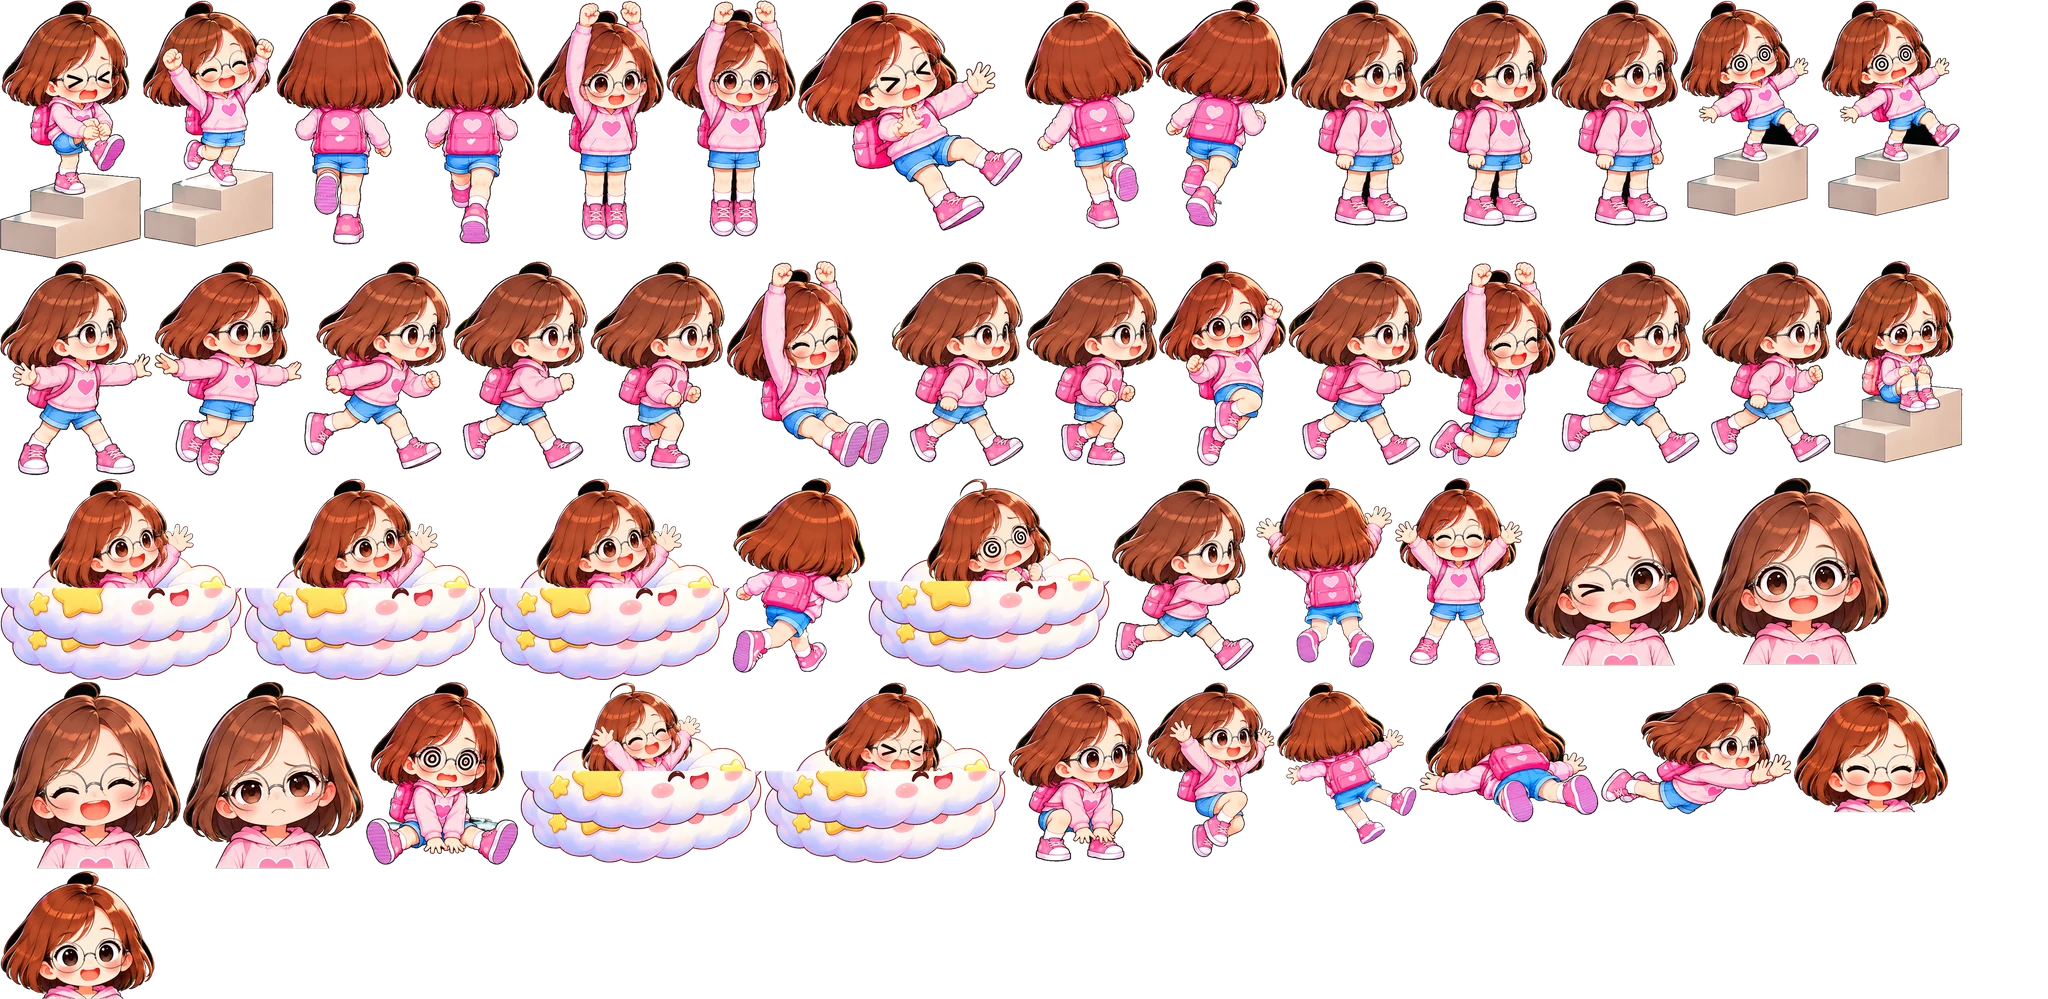
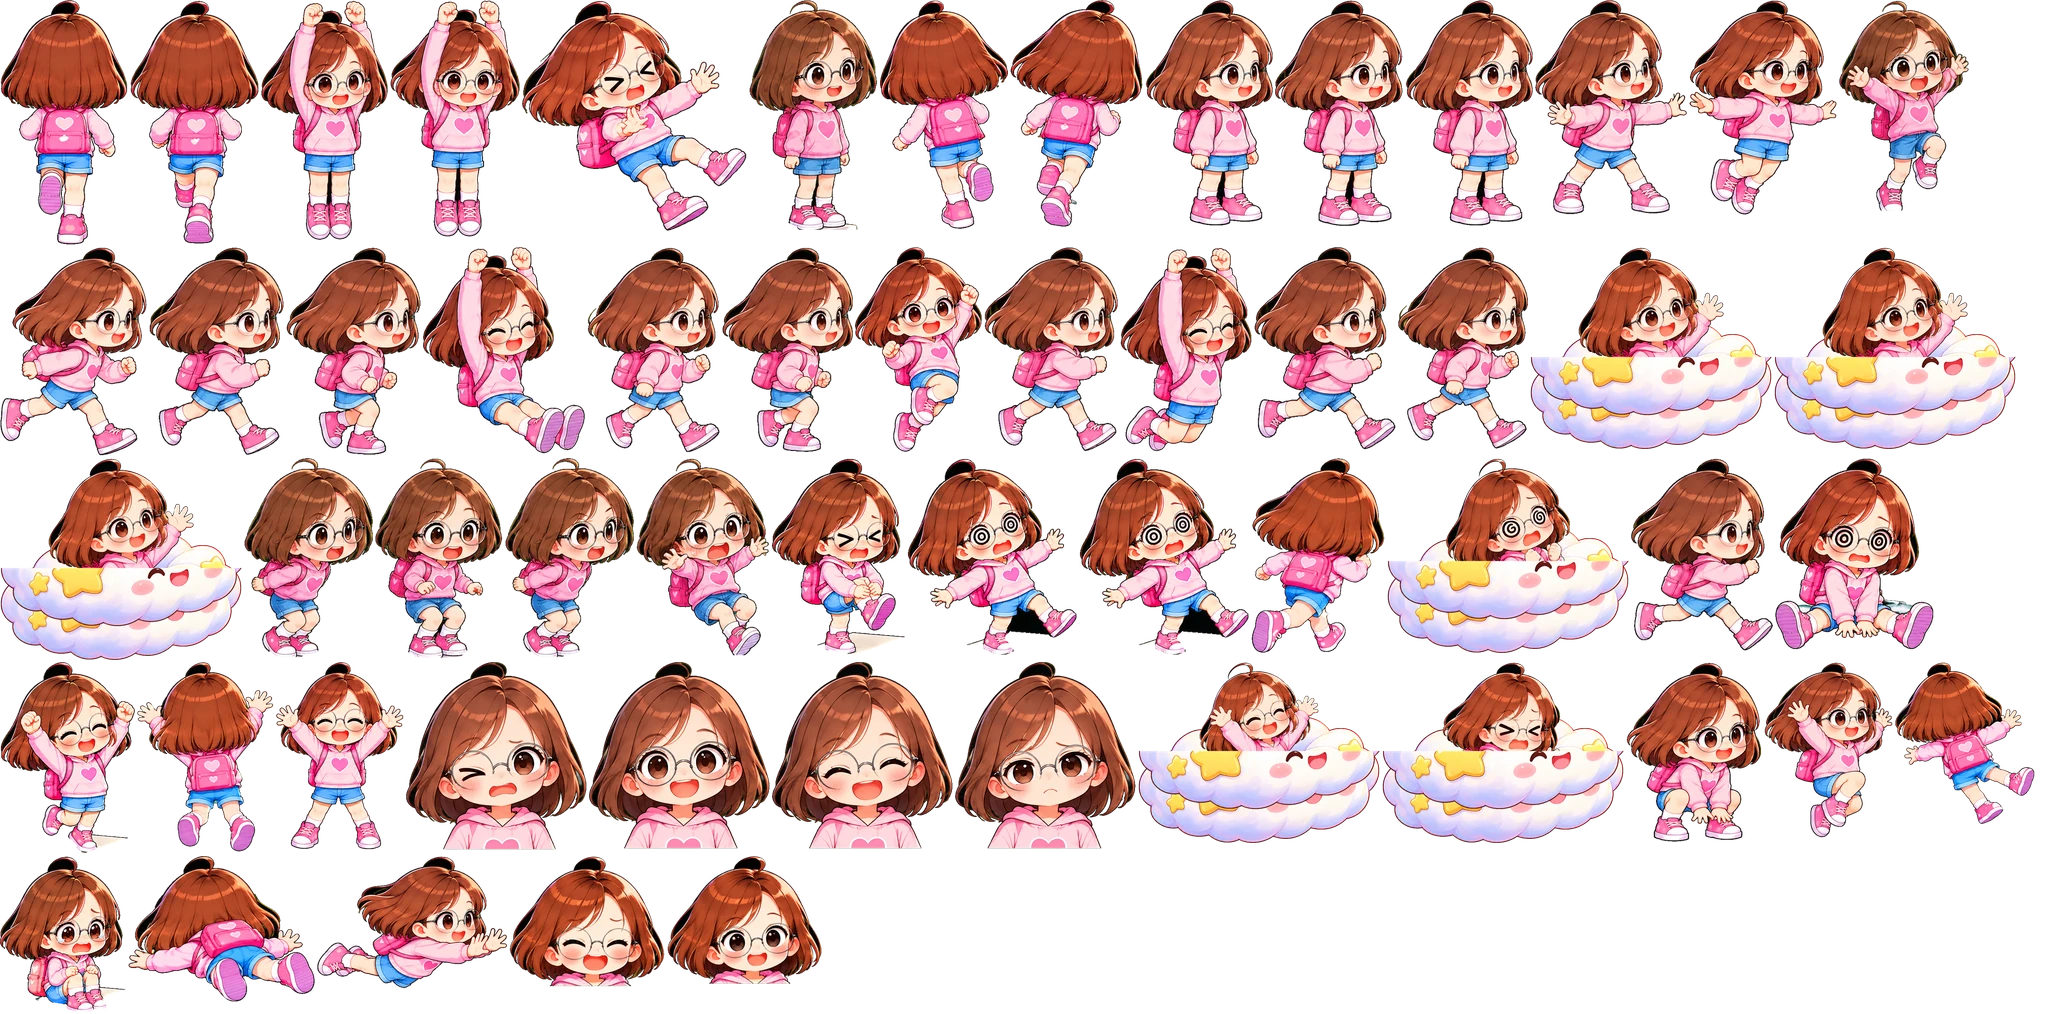
은유·은결 v3 계단 그림 다시 받은 것 반영 (55/55 통과), 다시 받은 시트 자동 교체, 사람과 떨어진 계단 블록·베이지 블록 지우기

diff --git a/common/charv2.js b/common/charv2.js
@@ -14,8 +14,8 @@
   function load(look) {
     if (!LOOKS[look] || atlas[look]) return;
     const a = atlas[look] = { img: new Image(), f: null, ok: false };
-    fetch(`${base}common/chars/${look}.json?v=202610240736`).then((r) => r.json()).then((j) => {
-      a.f = j.frames; a.img.onload = () => { a.ok = true; }; a.img.src = `${base}common/chars/${look}.webp?v=202610240736`;
+    fetch(`${base}common/chars/${look}.json?v=202610240756`).then((r) => r.json()).then((j) => {
+      a.f = j.frames; a.img.onload = () => { a.ok = true; }; a.img.src = `${base}common/chars/${look}.webp?v=202610240756`;
     }).catch(() => { /* 그림이 없으면 기본 그림으로 */ });
   }
   const get = (look, name) => { const a = atlas[look]; return a && a.ok && a.f[name] ? [a, a.f[name]] : null; };

diff --git a/skyhook/index.html b/skyhook/index.html
@@ -113,9 +113,9 @@
 
   <div id="rotateHint" class="hidden">가로로 돌리면 더 크게 볼 수 있어요 ↻</div>
 </div>
-<script src="../common/chars/looks.js?v=202610240736"></script>
+<script src="../common/chars/looks.js?v=202610240756"></script>
 <script src="../common/profile.js?v=20261023k"></script>
-<script src="../common/charv2.js?v=202610240736"></script>
+<script src="../common/charv2.js?v=202610240756"></script>
 <script src="../common/costume.js?v=20261023k"></script>
 <script src="../common/skins.js?v=20261023k"></script>
 <script src="game.js?v=20261023k"></script>

diff --git a/helicopter/index.html b/helicopter/index.html
@@ -91,9 +91,9 @@
 
   <div id="rotateHint" class="hidden">가로로 돌리면 더 크게 볼 수 있어요 ↻</div>
 </div>
-<script src="../common/chars/looks.js?v=202610240736"></script>
+<script src="../common/chars/looks.js?v=202610240756"></script>
 <script src="../common/profile.js?v=20261023k"></script>
-<script src="../common/charv2.js?v=202610240736"></script>
+<script src="../common/charv2.js?v=202610240756"></script>
 <script src="../common/costume.js?v=20261023k"></script>
 <script src="../common/skins.js?v=20261023k"></script>
 <script src="game.js?v=20261023k"></script>

diff --git a/stairs/index.html b/stairs/index.html
@@ -95,9 +95,9 @@
 
   <div id="rotateHint" class="hidden">📱 세로로 세워서 하면 더 크게 보여요</div>
 </div>
-<script src="../common/chars/looks.js?v=202610240736"></script>
+<script src="../common/chars/looks.js?v=202610240756"></script>
 <script src="../common/profile.js?v=20261023k"></script>
-<script src="../common/charv2.js?v=202610240736"></script>
+<script src="../common/charv2.js?v=202610240756"></script>
 <script src="../common/costume.js?v=20261023k"></script>
 <script src="../common/skins.js?v=20261023k"></script>
 <script src="game.js?v=20261023k"></script>

diff --git a/shisen/index.html b/shisen/index.html
@@ -88,10 +88,10 @@
 
   <div id="toast" class="toast hidden"></div>
 </div>
-<script src="../common/chars/looks.js?v=202610240736"></script>
+<script src="../common/chars/looks.js?v=202610240756"></script>
 <script src="../common/profile.js?v=20261023k"></script>
 <script src="../common/skins.js?v=20261023k"></script>
-<script src="../common/charv2.js?v=202610240736"></script>
+<script src="../common/charv2.js?v=202610240756"></script>
 <script src="../common/costume.js?v=20261023k"></script>
 <script src="game.js?v=20261023k"></script>
 </body>

diff --git a/downhill/index.html b/downhill/index.html
@@ -87,9 +87,9 @@
     </div>
   </div>
 </div>
-<script src="../common/chars/looks.js?v=202610240736"></script>
+<script src="../common/chars/looks.js?v=202610240756"></script>
 <script src="../common/profile.js?v=20261023k"></script>
-<script src="../common/charv2.js?v=202610240736"></script>
+<script src="../common/charv2.js?v=202610240756"></script>
 <script src="../common/costume.js?v=20261023k"></script>
 <script src="../common/skins.js?v=20261023k"></script>
 <script src="game.js?v=20261023b"></script>

diff --git a/index.html b/index.html
@@ -171,7 +171,7 @@
     <button id="tsStart" class="ts-start"><span class="ts-tri"></span>START</button>
   </div>
 
-<script src="common/chars/looks.js?v=202610240736"></script>
+<script src="common/chars/looks.js?v=202610240756"></script>
 <script src="common/profile.js?v=20261023r"></script>
 <script src="hub/hub.js?v=20261023r"></script>
 </body>

diff --git a/shop/index.html b/shop/index.html
@@ -130,7 +130,7 @@
 </div>
 <div id="toast" class="toast hidden"></div>
 
-<script src="../common/chars/looks.js?v=202610240736"></script>
+<script src="../common/chars/looks.js?v=202610240756"></script>
 <script src="../common/profile.js?v=20261023k"></script>
 <script src="shop.js?v=20261023k"></script>
 </body>

diff --git a/tools/char_pipeline.py b/tools/char_pipeline.py
@@ -296,6 +296,9 @@ def split_sheet(path, names, rows):
     if n == 0: return None, '그림에서 캐릭터를 못 찾음'
     sz = nd.sum(m2, lab, range(1, n + 1)); order = np.argsort(sz)[::-1]
     big = [i for i in order if sz[i] > sz[order[0]] * 0.15]
+    if names[0].startswith('stairs_'):  # 사람과 떨어진 계단 블록 덩어리(거의 다 흐린 회색)는 사람으로 안 셈
+        rgb = a[..., :3].astype(int); dull = (rgb.max(2) - rgb.min(2)) < 45
+        big = [i for i in big if dull[lab == i + 1].mean() < 0.6]
     if len(big) < N and rows == 1:
         # 캐릭터끼리 살짝 붙은 경우: 세로로 가장 비어 있는 곳에서 나눔
         col = m.sum(0).astype(float); xs = np.where(col > 0)[0]; L, R = xs.min(), xs.max()
@@ -327,14 +330,24 @@ def split_sheet(path, names, rows):
         piece[..., 3] = np.where(mask, piece[..., 3], 0)
         if name.startswith('stairs_'):  # GPT가 계단 블록을 같이 그린 경우 지움
             rgb = piece[..., :3].astype(int); sat = rgb.max(2) - rgb.min(2); v = rgb.max(2)
-            gray = (sat < 22) & (v > 110) & (v < 238) & (piece[..., 3] > 40)
+            gray = (sat < 40) & (v > 110) & (v < 238) & (piece[..., 3] > 40)
             gray[:int(piece.shape[0] * 0.55)] = False
+            # 베이지 블록은 피부색과 비슷해서 크기로 가름: 넓고 매끈한 덩어리(몸의 8% 넘게)면 블록 (다리·얼굴은 훨씬 작음)
+            beige = (sat < 62) & (v > 150) & (v < 253) & (piece[..., 3] > 40); beige[:int(piece.shape[0] * 0.5)] = False
+            bl, bn = nd.label(nd.binary_opening(beige, iterations=4))
+            if bn:
+                bsz = nd.sum(bl > 0, bl, range(1, bn + 1)); body = (piece[..., 3] > 40).sum()
+                gray = gray | nd.binary_dilation(np.isin(bl, [i + 1 for i, v2 in enumerate(bsz) if v2 > body * 0.08]), iterations=4)
             gl, gn = nd.label(nd.binary_opening(gray, iterations=2))
             if gn:
                 gsz = nd.sum(gray, gl, range(1, gn + 1))
                 kill = np.isin(gl, [i + 1 for i, v2 in enumerate(gsz) if v2 > 1500])
                 kill = nd.binary_dilation(kill, iterations=2)
                 piece[..., 3] = np.where(kill, 0, piece[..., 3])
+                # 발밑에 남은 블록 윗면(흐린 색, 테두리 선만 진함): 신발 색(진한 색) 맨 아래보다 밑은 지움
+                strong = (piece[..., 3] > 40) & (sat > 60)
+                rows_s = np.where(strong.sum(1) >= 3)[0]
+                if len(rows_s): piece[rows_s.max() + 10:, :, 3] = 0
                 kp, kn = nd.label(piece[..., 3] > 40)
                 if kn > 1:
                     ksz = nd.sum(piece[..., 3] > 40, kp, range(1, kn + 1)); keepm = kp == (np.argmax(ksz) + 1)
@@ -376,10 +389,22 @@ def cmd_sheets(eid, cname, folder, refdir=None):
         mm = re.search(r'S(\d{2})', os.path.basename(f), re.I)
         if mm: named[f'S{mm.group(1)}'] = f
     rest = [f for f in imgs if f not in named.values()]
+    # 14장 뒤에 더 넣은 그림 = 다시요청.txt 로 다시 받은 시트 (요청한 순서대로 그 시트를 바꿈)
+    vd = f'{ROOT}/character/{eid}_v4'; os.makedirs(vd, exist_ok=True)
+    try: redo_map = json.load(open(f'{vd}/다시배정.json'))
+    except Exception: redo_map = {}
+    extra = [f for f in rest[len(SHEETS) - len(named):] if os.path.basename(f) not in redo_map.values()]
+    if extra and os.path.exists(f'{vd}/다시요청.txt'):
+        asked = re.findall(r'^(S\d{2}) ', open(f'{vd}/다시요청.txt', encoding='utf-8').read(), re.M)
+        for sid, f in zip(asked, extra): redo_map[sid] = os.path.basename(f)
+        json.dump(redo_map, open(f'{vd}/다시배정.json', 'w'), ensure_ascii=False)
+    rest = rest[:len(SHEETS) - len(named)]
+    redo_f = {sid: f'{folder}/{b}' for sid, b in redo_map.items() if os.path.exists(f'{folder}/{b}')}
     out = f'{ROOT}/character/{eid}_v4/cut'; os.makedirs(out, exist_ok=True)
     log = []; check = []
     for sid, title, names, rows in SHEETS:
         f = named.get(sid) or (rest.pop(0) if rest else None)
+        f = redo_f.get(sid, f)  # 다시 받은 그림이 있으면 그걸 씀 (원래 순서 자리는 그대로 넘김)
         if not f: log.append(f'{sid} {title}: ✕ 시트 그림 없음'); continue
         parts, err = split_sheet(f, names, rows)  # 저장한 순서를 그대로 믿음 (다른 시트를 끌어오지 않음)
         if err: log.append(f'{sid} {title}: ✕ {err} ({os.path.basename(f)})'); continue
